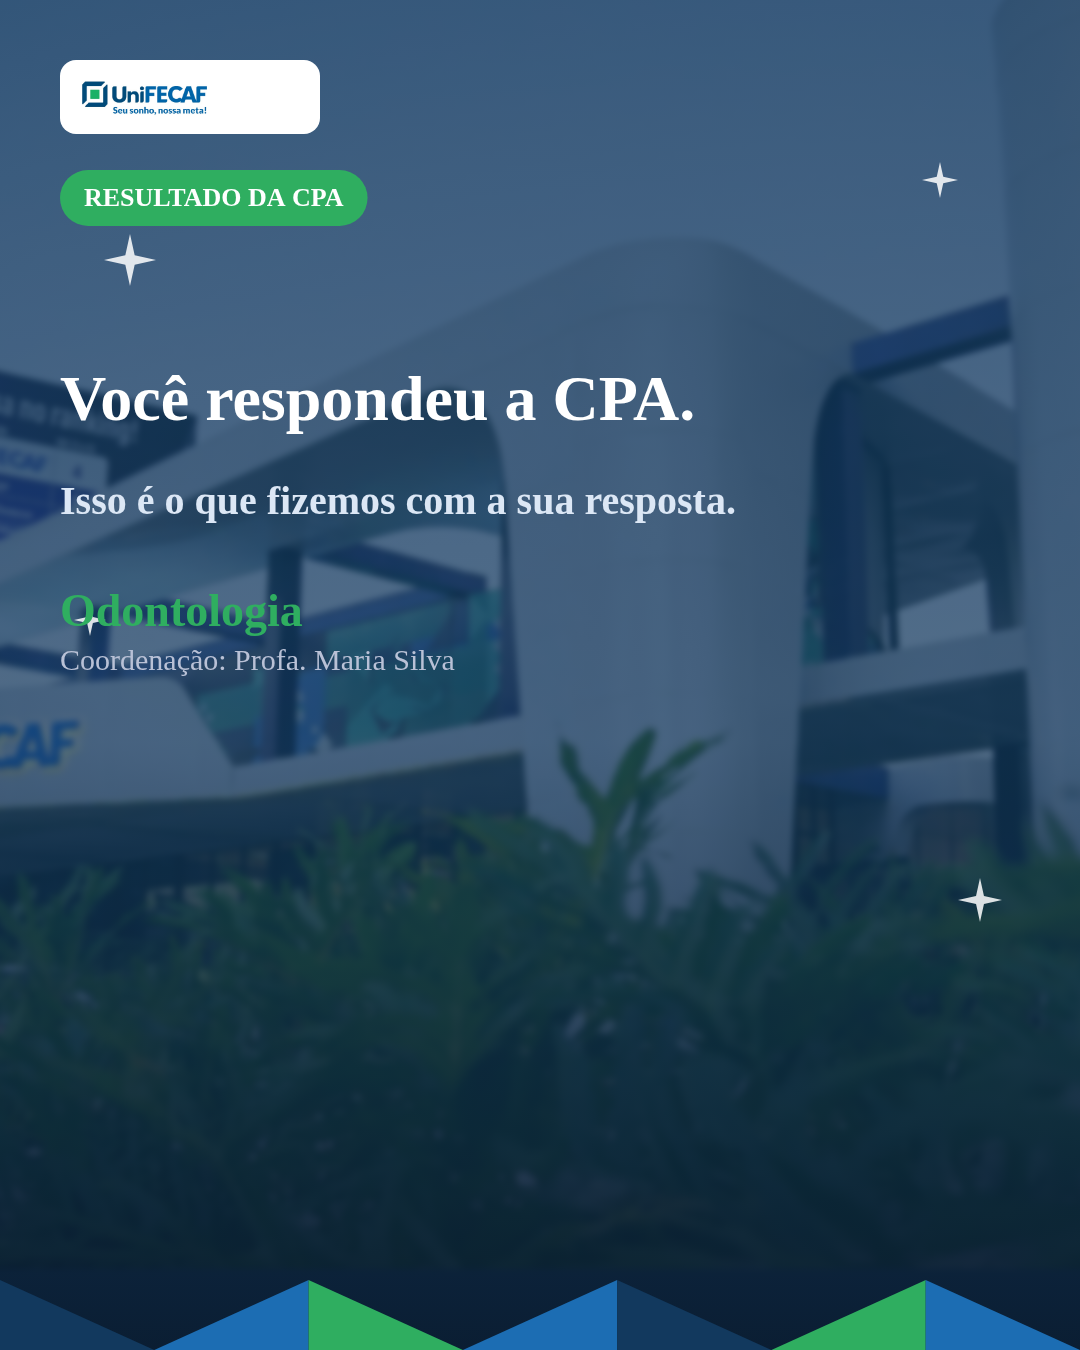
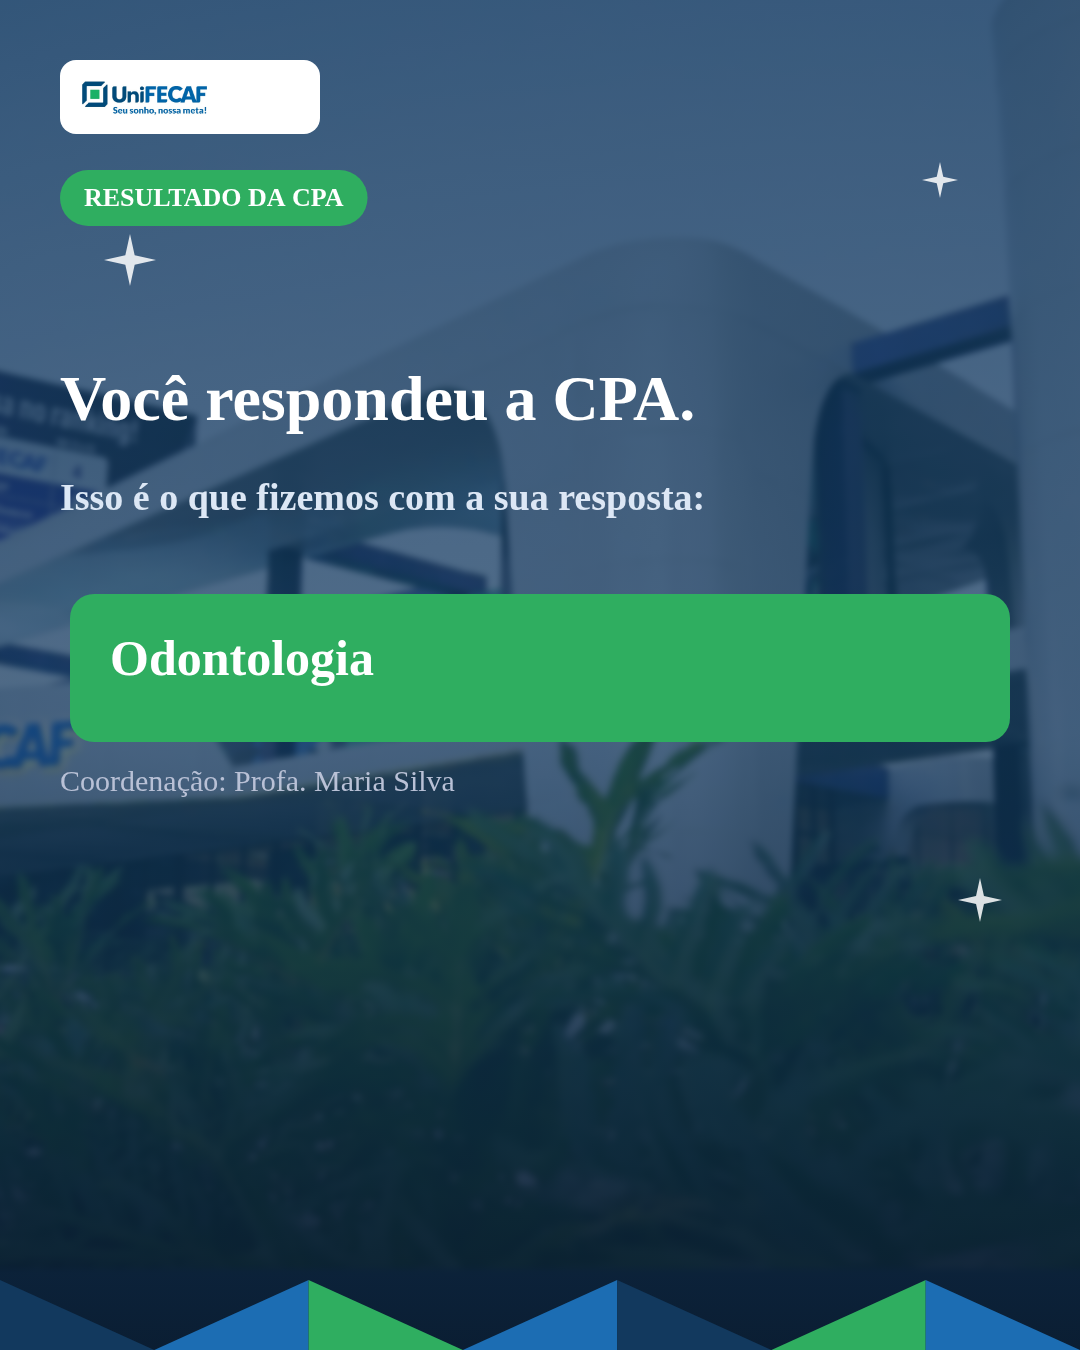
Conecta capa e encerramento ao resto da história no protótipo v2
Diagnóstico do Yago: a tela de encerramento não tinha cabeçalho nem
menção ao curso — parecia um slide genérico jogado no final, sem
ligação com o resto do carrossel.

- Capa: o nome do curso agora ganha uma caixa de destaque verde
  (mesmo tratamento do "chique" no exemplo de referência), em vez de
  só aparecer pequeno perto do rodapé.
- Encerramento: ganhou o mesmo selo/cabeçalho das outras telas e o
  rodapé com curso + coordenador, fechando o carrossel em vez de
  ficar solto. Também mostra quantas ações do curso já estão em
  andamento (número real, não frase genérica).

Claude-Session: https://claude.ai/code/session_019qUdFDgaMF72fDEGp7biez

Changed region(s): [[0.0611, 0.4356, 0.9472, 0.5911], [0.0611, 0.3422, 0.6722, 0.4044]]

diff --git a/templates/post-cpa-v2/proto.html b/templates/post-cpa-v2/proto.html
@@ -184,6 +184,9 @@ function rodapeAtribuicao(ctx, curso, coordenador){
 }
 
 // ---------- SLIDE 1: CAPA ----------
+// Hierarquia em camadas (tipo os posts "Acho chique..."): frase de abertura,
+// depois o CURSO ganha destaque numa caixa colorida — é o gancho pessoal
+// da peça, não só um rodapé pequeno.
 function desenharCapa(ctx, dados){
   fundoBase(ctx, 'rgba(255,255,255,0.85)', dados.foto);
   logoCard(ctx, 60, 60, dados.logo);
@@ -193,22 +196,22 @@ function desenharCapa(ctx, dados){
   ctx.textAlign = 'left';
   ctx.textBaseline = 'alphabetic';
   ctx.font = '800 64px Poppins';
-  const linhas1 = quebrarTexto(ctx, 'Você respondeu a CPA.', 940);
   let y = 420;
-  linhas1.forEach(l=>{ ctx.fillText(l, 60, y); y += 74; });
+  quebrarTexto(ctx, 'Você respondeu a CPA.', 940).forEach(l=>{ ctx.fillText(l, 60, y); y += 74; });
 
   ctx.fillStyle = '#DCE7F5';
-  ctx.font = '600 40px "Work Sans"';
-  const linhas2 = quebrarTexto(ctx, 'Isso é o que fizemos com a sua resposta.', 940);
-  y += 20;
-  linhas2.forEach(l=>{ ctx.fillText(l, 60, y); y += 52; });
+  ctx.font = '600 38px "Work Sans"';
+  y += 16;
+  quebrarTexto(ctx, 'Isso é o que fizemos com a sua resposta:', 940).forEach(l=>{ ctx.fillText(l, 60, y); y += 50; });
 
-  ctx.fillStyle = GREEN;
-  ctx.font = '800 46px Poppins';
-  ctx.fillText(dados.curso, 60, y + 60);
+  y += 34;
+  y = caixaDestaque(ctx, dados.curso, GREEN, y, 50);
+
+  y += 26;
   ctx.fillStyle = '#B9C1D6';
+  ctx.textAlign = 'left';
   ctx.font = '500 30px "Work Sans"';
-  ctx.fillText('Coordenação: ' + dados.coordenador, 60, y + 104);
+  ctx.fillText('Coordenação: ' + dados.coordenador, 60, y);
 }
 
 // ---------- SLIDE: UM ITEM (problema + solução juntos, mais denso) ----------
@@ -244,19 +247,35 @@ function desenharItem(ctx, dados){
 }
 
 // ---------- SLIDE 4: ENCERRAMENTO ----------
+// Fecha a história em vez de ser um slide genérico solto: mesmo cabeçalho
+// (selo) das outras telas, um resumo com número real de ações do curso, e
+// atribuição de curso/coordenador no rodapé, igual as telas anteriores.
 function desenharEncerramento(ctx, dados){
   fundoBase(ctx, 'rgba(255,255,255,0.85)', dados.foto);
-  logoCard(ctx, (1080-260)/2, 480, dados.logo);
+  logoCard(ctx, 60, 60, dados.logo);
+  seloTopo(ctx, 'RESULTADO DA CPA', 60, 170);
 
   ctx.fillStyle = WHITE;
-  ctx.textAlign = 'center';
-  ctx.font = '700 44px Poppins';
-  quebrarTexto(ctx, 'Esse plano passa pela Coordenação, pela CPA e pela Direção da Faculdade.', 780)
-    .forEach((l,i)=>ctx.fillText(l, 540, 660 + i*56));
+  ctx.textAlign = 'left';
+  ctx.textBaseline = 'alphabetic';
+  ctx.font = '800 50px Poppins';
+  let y = 420;
+  const n = dados.totalItens || 1;
+  const tituloResumo = n === 1 ? '1 ação já em andamento pro seu curso.' : n + ' ações já em andamento pro seu curso.';
+  quebrarTexto(ctx, tituloResumo, 940).forEach(l=>{ ctx.fillText(l, 60, y); y += 58; });
 
+  y += 30;
+  ctx.fillStyle = '#DCE7F5';
+  ctx.font = '600 34px "Work Sans"';
+  quebrarTexto(ctx, 'Esse plano passa pela Coordenação, pela CPA e pela Direção da Faculdade — sua opinião muda a faculdade de verdade.', 940)
+    .forEach(l=>{ ctx.fillText(l, 60, y); y += 46; });
+
+  y += 40;
   ctx.fillStyle = GREEN;
-  ctx.font = '800 40px Poppins';
-  ctx.fillText('Seu sonho, nossa meta!', 540, 900);
+  ctx.font = '800 42px Poppins';
+  ctx.fillText('Seu sonho, nossa meta!', 60, y);
+
+  rodapeAtribuicao(ctx, dados.curso, dados.coordenador);
 }
 
 function carregarImagem(src){
@@ -283,7 +302,9 @@ async function main(){
     problema: 'Falta de horários de atendimento no laboratório em turnos alternativos, principalmente pra quem trabalha durante o dia.',
     solucao: 'Ampliação do horário dos laboratórios para os períodos noturno e sábado, começando já no próximo semestre.'
   });
-  desenharEncerramento(document.getElementById('c-fim').getContext('2d'), { foto, logo });
+  desenharEncerramento(document.getElementById('c-fim').getContext('2d'), {
+    curso: 'Odontologia', coordenador: 'Profa. Maria Silva', foto, logo, totalItens: 1
+  });
 
   window.PRONTO = true;
 }
